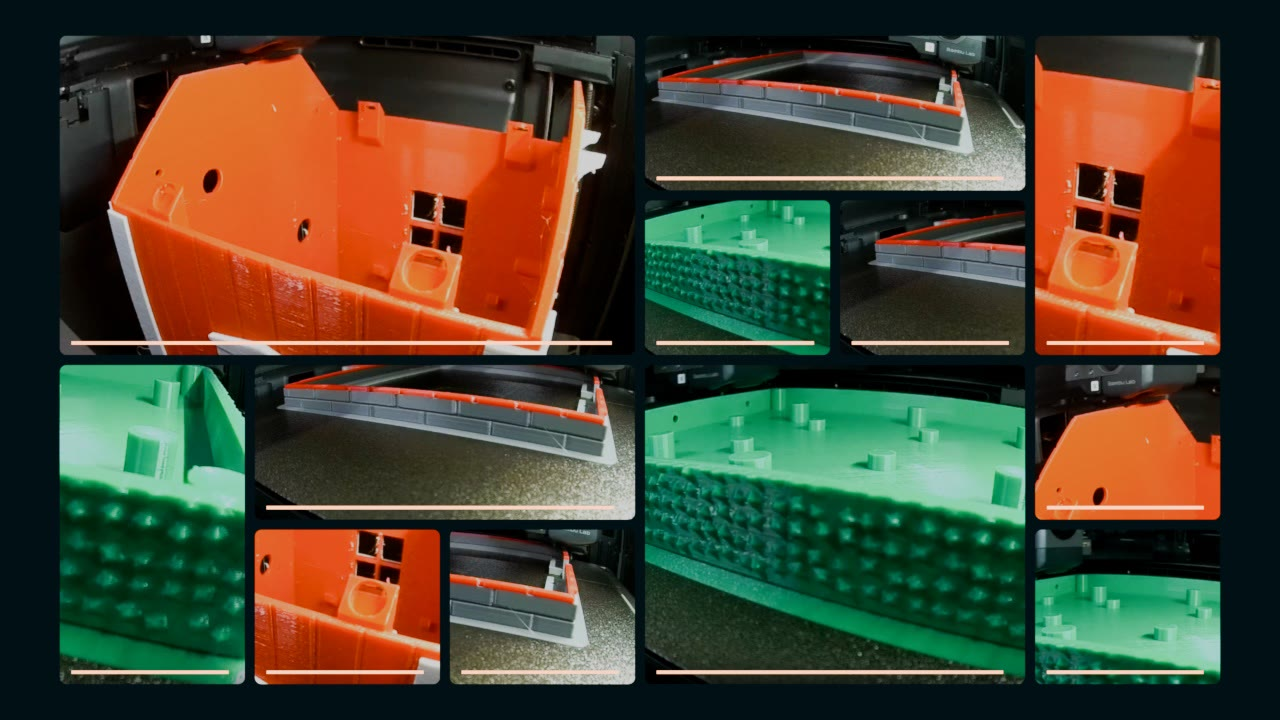
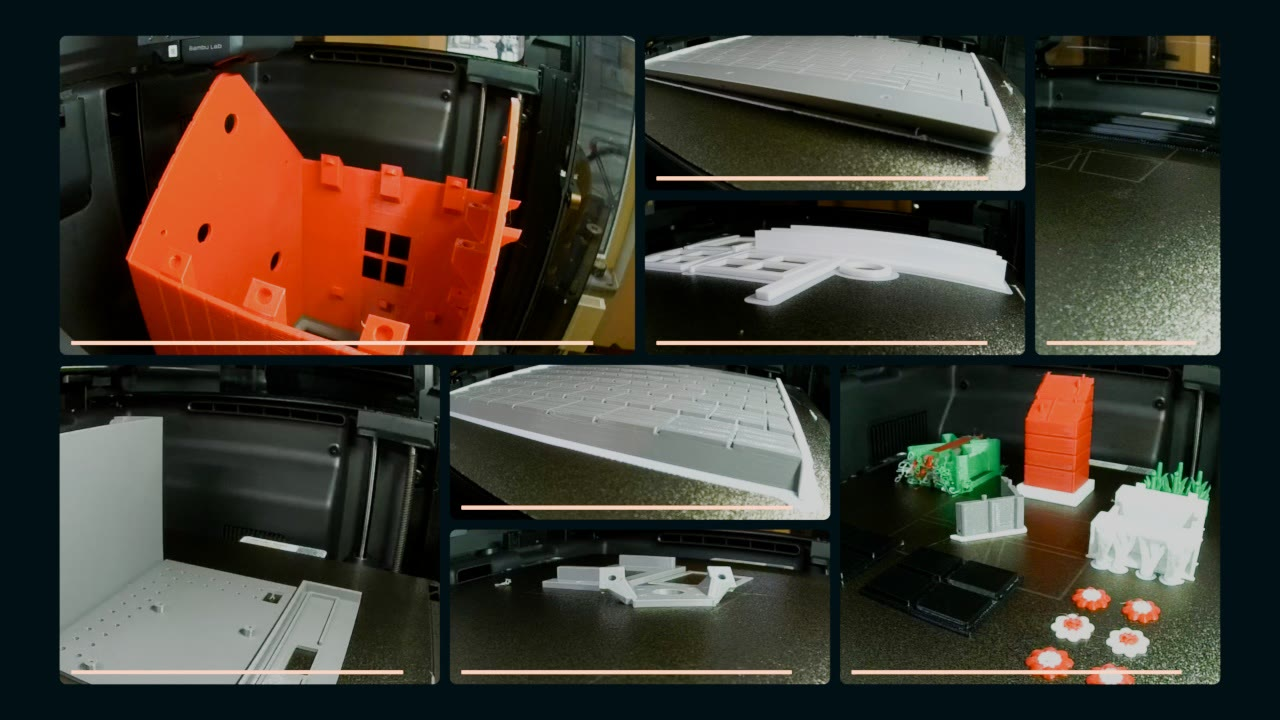
Film: riktiga timelapse-klipp i utskriftsväggen
Utskriftsväggen (5.2–5.3) visar nu Marcus åtta timelapse-klipp från
skrivaren i stället för tre stillbilder. Väggen har åtta rutor i stället
för tolv, och varje klipp går från tom byggplatta till färdig del så att
alla blir klara samtidigt. Ljudmixen har ett klick per ruta.

diff --git a/trailer/storyboard/storyboard.html b/trailer/storyboard/storyboard.html
@@ -134,7 +134,7 @@ td:first-child { color: var(--fg); white-space: nowrap; font-family: var(--mono)
 <div class="wrap">
 
 <header class="top">
-  <div class="eyebrow">Storyboard v32 · Titeln vänds bort i brickor</div>
+  <div class="eyebrow">Storyboard v33 · Riktiga timelapse-klipp i utskriftsväggen</div>
   <h1>Projekt <span>Lennart</span></h1>
   <p class="lead">En helt orimlig mängd teknik, redovisad med fullt allvar, för att en ekorre ska få äta sin nöt i fred.</p>
   <div class="facts">
@@ -192,7 +192,7 @@ td:first-child { color: var(--fg); white-space: nowrap; font-family: var(--mono)
     <div><span class="tc">0:42–1:27 · 3D med kartongfigurer</span><h3>2 · Problemet och planen</h3><p>Fåglarna länsar buffén. Sedan idén: kameran, frågan till molnet, nej till fågeln och ja till Lennart.</p></div>
     <div><span class="tc">1:27–1:47 · 3D</span><h3>3 · Designen</h3><p>Skissen blir lera, blir färdig stuga, i en enda kamerabana.</p></div>
     <div><span class="tc">1:47–2:03 · 3D</span><h3>4 · Inköpen</h3><p>Rösten räknar upp delarna och varje del landar på sitt ord.</p></div>
-    <div><span class="tc">2:03–2:16 · 3D och riktig film</span><h3>5 · Utskriften</h3><p>Lager för lager. Kan filmas på riktigt när du skriver ut.</p></div>
+    <div><span class="tc">2:03–2:16 · 3D och riktig film</span><h3>5 · Utskriften</h3><p>Lager för lager, med dina riktiga timelapse-klipp från skrivaren.</p></div>
     <div><span class="tc">2:16–2:38 · 3D</span><h3>6 · Monteringen</h3><p>Filmens visuella topp. Två repliker, resten musik och klick.</p></div>
     <div><span class="tc">2:38–2:58 · riktig film</span><h3>7 · På riktigt</h3><p>Fågeln nekas och Lennart släpps in, i verkligheten. Platshållare tills huset är utskrivet.</p></div>
   </div>
@@ -331,7 +331,7 @@ td:first-child { color: var(--fg); white-space: nowrap; font-family: var(--mono)
     <div><h3>Kvar att lösa</h3>
       <ul>
         <li><b>Finalen.</b> Film på det riktiga huset med en fågel och med Lennart, när huset är utskrivet. Tills dess ligger platshållare där.</li>
-        <li><b>Film från utskriften.</b> Eftersom huset inte är utskrivet än går det att filma munstycket i makro och en timelapse, i stället för att göra det i 3D.</li>
+        <li><b>Film från utskriften.</b> Utskriftsväggen (5.2–5.3) använder nu dina åtta timelapse-klipp. Kvar är 5.1, som fortfarande är en stillbild ur 3D, och den kan bytas mot ett närklipp på munstycket.</li>
         <li><b>Originalfilerna i högre upplösning.</b> Klippen är 720p och förstoras nästan två gånger.</li>
         <li><b>Inköpslistan</b>, så att antal servon, filamentfärger och övriga delar blir rätt i del 4.</li>
         <li><b>Vilken AI-tjänst</b> som används i molnet, om den ska nämnas vid namn.</li>
@@ -373,7 +373,7 @@ td:first-child { color: var(--fg); white-space: nowrap; font-family: var(--mono)
     <li><b>Du godkänner ordningen och manuset</b>, eller ger noter per klippnummer.</li>
     <li><b>Du spelar in rösten</b>, en fil per del.</li>
     <li><b>Jag bygger del 2</b>, planen med pappfigurerna, och tajmar om de färdiga delarna efter din röst.</li>
-    <li><b>Del 5 och 6</b> byggs i 3D. Del 5 byts mot riktig film om du filmar utskriften.</li>
+    <li><b>Del 6</b> byggs i 3D. Del 5 visar dina riktiga timelapse-klipp, utom 5.1 som är en stillbild ur 3D.</li>
     <li><b>Finalen</b> klipps in när huset är utskrivet och filmat.</li>
   </ol>
 </section>
@@ -413,10 +413,10 @@ const ACTS = [
   ['4.1','1:47','10 s','Uppläggningen','a3_1','cg','Varje del nämns i samma ögonblick som den landar.','Petroleumblå yta. Under första meningen landar allt det andra som köptes längs kanterna: ljusring, kamerakabel, kondensatorer, kabelgenomföringar, superlim, silikon, kylare, spänningsomvandlare, DC-kontakt och servotestare. Samtidigt ritas streckade konturer upp i mitten där huvuddelarna ska ligga. Huvuddelarna glider sedan in en i taget i sina konturer och får en etikett. Sladdarna växer fram i räta vinklar.','Snett uppifrån, nästan stilla.','En stor mjuk ljuskälla.','Kanterna fylls under "en hel del grejer", en sak i taget med ett svagt tick. Sedan en huvuddel per ord, i röstens ordning: Raspberry Pi, kameramodul, LED-skärm, servomotorer (en mikroservo och en större), kablar, skruvar, nötter. Konturen lyser till när delen landar.','Kameran panorerar till filamentrullarna.','"Sen var det ju en hel del grejer som skulle köpas, såklart. En Raspberry Pi. En kameramodul. En LED-skärm. Servomotorer. Kablar. Skruvar. Och nötter."','Ett torrt klick per del. Nötterna får ett mjukare ljud.','3D. Komponenterna är generiska modeller, inte kopior av de inköpta delarna. Sakerna i kanterna är hämtade ur kvittot från elektronikbeställningen.'],
   ['4.2','1:57','6 s','Filamentet','a3_2','cg','Bron till utskriften.','Fem filamentrullar, röd, grön, vit, grå och svart, glider in. Kameran landar över alla fem och åker sedan in mot den röda.','Inåkning till makro.','Kall kant från höger.','Rullen accelererar.','Kameran åker in i rullens svarta nav tills bilden är svart.','"Plus en massa filament i rätt färger. Claude satte ihop inköpslistan, och sen var det bara för mig och Lennart att hosta upp pengarna."','Ett surr som går över i skrivarens fläkt.','3D'],
  ]],
- ['5 · Utskriften', '2:03–2:16', 'Utskriftsväggen ligger in som platshållare med tre stillbilder. Byts mot dina riktiga timelapse-klipp.', [
+ ['5 · Utskriften', '2:03–2:16', 'Utskriftsväggen visar nu dina åtta riktiga timelapse-klipp från skrivaren. 5.1 är fortfarande en stillbild ur 3D.', [
   ['5.1','2:03','3 s','Lager för lager','12','cg','Bron från digitalt till fysiskt.','Stugans kropp halvvägs utskriven på skrivarens byggplatta. Den utskrivna delen har synliga lagerlinjer, det lager som skrivs just nu glöder vid munstycket, och resten av stugan syns som en svag genomskinlig förhandsvisning. Visar övergången från ritning till utskrift: modellen byggs upp ett tunt lager i taget.','Snett ovanifrån.','Sval och platt.','Planet stiger nerifrån och upp, som utskriften kommer att göra.','Munstycket glider in och lägger sig på planet.','"Och sen skrev jag ut allt."','En stigande ton som går över i fläkten.','Stillbild ur 3D från GLB, platshållare. Riktigt material: en skärminspelning från slicern (programmet som delar upp modellen i lager) eller ett närklipp på munstycket från skrivaren.'],
-  ['5.2','2:06','4 s','Utskriftsväggen','u1','mix','Visa hur mycket som skrevs ut.','En utskrift i helbild. Kameran backar och vrids, och det visar sig att den är en av tolv rutor i en vägg av timelapse-klipp i olika storlekar. Rutorna dyker fram utåt från den första.','Helbild som backar till en sned vy av väggen.','Rutorna är bildens enda ljus mot mörk petroleumblå botten.','Rutorna dyker fram en i taget, på olika djup.','Kameran fortsätter in i nästa klipp utan avbrott.','Ingen röst.','Ett lätt ljud per ruta.','Riktiga timelapse-klipp från skrivaren i 3D-layout. Platshållare: tre stillbilder i olika beskärning.'],
-  ['5.3','2:10','6 s','Alla blir klara','u2','mix','Tid och tålamod, och att allt blev klart.','Kameran glider rakt framifrån och väggen planas ut till en exakt layout med tolv rutor. En tunn orange linje fylls under varje ruta, och alla når fram samtidigt och blixtrar till.','Rakt framifrån, långsam åkning.','Samma.','Linjerna fylls, alla blir klara i samma ögonblick.','Rutorna glider isär som dörrar och kameran åker in genom öppningen, rakt in i sprängskissen.','"Utskriften tog några dagar. Det här med att det ska bli rätt första gången är ändå lite överskattat."','Ett gemensamt klart-ljud när linjerna blixtrar.','Riktiga timelapse-klipp, tidsjusterade så att alla blir klara samtidigt. Platshållare tills de finns.'],
+  ['5.2','2:06','4 s','Utskriftsväggen','u1','mix','Visa hur mycket som skrevs ut.','En utskrift i helbild. Kameran backar och vrids, och det visar sig att den är en av åtta rutor i en vägg av timelapse-klipp i olika storlekar. Rutorna dyker fram utåt från den första.','Helbild som backar till en sned vy av väggen.','Rutorna är bildens enda ljus mot mörk petroleumblå botten.','Rutorna dyker fram en i taget, på olika djup.','Kameran fortsätter in i nästa klipp utan avbrott.','Ingen röst.','Ett lätt ljud per ruta.','Dina åtta timelapse-klipp från skrivaren (15–18/11) i 3D-layout. Huvudrutan är stugans röda kropp.'],
+  ['5.3','2:10','6 s','Alla blir klara','u2','mix','Tid och tålamod, och att allt blev klart.','Kameran glider rakt framifrån och väggen planas ut till en exakt layout med åtta rutor. En tunn orange linje fylls under varje ruta, och alla når fram samtidigt och blixtrar till.','Rakt framifrån, långsam åkning.','Samma.','Linjerna fylls, alla blir klara i samma ögonblick.','Rutorna glider isär som dörrar och kameran åker in genom öppningen, rakt in i sprängskissen.','"Utskriften tog några dagar. Det här med att det ska bli rätt första gången är ändå lite överskattat."','Ett gemensamt klart-ljud när linjerna blixtrar.','Dina timelapse-klipp, tidsjusterade så att alla blir klara samtidigt: varje klipp går från tom byggplatta till färdig del medan linjen under rutan fylls.'],
  ]],
  ['6 · Monteringen', '2:16–2:38', 'Första renderingen klar, utan ljud. Elektroniken från inköpen är inte med än.', [
   ['6.1','2:16','4 s','Sprängskissen','m_16','cg','Visa hela konstruktionen på en gång.','Alla 48 delar svävar isär mot petroleumblå bakgrund. Bakom huset poppar fyra klipp från bygget upp i varsitt hörn i takt med musiken, i vita ramar med rundade hörn. Klippen är lite mjuka, mörkare och dragna mot scenens kalla färg, så att huset är skarpast i bilden.','Långsam omloppsbana.','En stor mjuk nyckel, kall kant.','Delarna andas svagt.','Grunddelarna börjar falla mot varandra.','"Okej, så här sitter den ihop."','Musikens huvudtema.','3D från GLB + delar.json. Byggklippen läggs bakom huset med husets mask. De fyra klippen är platshållare tills de riktiga klippen från bygget kommer.'],
@@ -436,10 +436,10 @@ const FILM = {
  "1.1": "Ur del 1 v1, klippt efter din inspelning.", "1.2": "Ny presentation: korten byggs med film/verktyg/tre_rutor.py. Samma klipp och tider som förut, nu med ett mjukt klick per kort.", "1.3": "Ur del 1 v3. Namnskylten kommer tidigare och ligger kvar in i nästa klipp.", "1.4": "Ur del 1. Nytt slut: Lennart öppnar tassarna och släpper nöten (genererat med Higgsfield), kameran följer den ner till 2.1.",
  "2.1": "Ny version, v8: nöten från 1.4 faller ner och landar på fatet. Vattnet i skålen är nu riktigt vatten: genomskinligt, med krusningar. Figurerna står på en rak kant och vickar på foten i stället för att gå ner i golvet.", "2.2": "Ur v3. Vattnet i skålen är nu riktigt vatten: genomskinligt, med krusningar. Figurerna står på en rak kant och vickar på foten i stället för att gå ner i golvet.", "2.3": "Ur v3. Vattnet i skålen är nu riktigt vatten: genomskinligt, med krusningar. Figurerna står på en rak kant och vickar på foten i stället för att gå ner i golvet.", "2.4": "Ur v3. Vattnet i skålen är nu riktigt vatten: genomskinligt, med krusningar. Figurerna står på en rak kant och vickar på foten i stället för att gå ner i golvet.", "2.5": "Ny version, v5: nej-signalen slår ner i fatet, som snurrar ut med ett porslinsklirr. Vattnet i skålen är nu riktigt vatten: genomskinligt, med krusningar. Figurerna står på en rak kant och vickar på foten i stället för att gå ner i golvet.", "2.6": "Ny version, v6: nötterna vilar, kameran lyfter i slutet. Vattnet i skålen är nu riktigt vatten: genomskinligt, med krusningar. Figurerna står på en rak kant och vickar på foten i stället för att gå ner i golvet.",
  "6.1": "Ny version, v2: byggklippen i hörnen, i takt med musiken (platshållare).", "6.2": "Ny version, v2: byggklippen går när kameran åker nära (platshållare).", "6.3": "Första renderingen, v1. Rösten klipps inte längre i slutet av \"honom\".", "3.1": "Ny version, v6: ett litet munstycke under fönstret projicerar ritningen, med mjuk rörelse.", "3.2": "Ny version, v4: snabb panorering i slutet.",
- "4.1": "Ny version, v6: konturer och allt det andra som köptes längs kanterna.", "4.2": "Ny version, v6: fem filamentfärger, in i den röda rullens nav i slutet. Det svarta filamentet är blankare så att det syns.", "5.2": "Platshållare: utskriftsväggen med dina tre stillbilder.", "5.3": "Platshållare: utskriftsväggen med dina tre stillbilder."
+ "4.1": "Ny version, v6: konturer och allt det andra som köptes längs kanterna.", "4.2": "Ny version, v6: fem filamentfärger, in i den röda rullens nav i slutet. Det svarta filamentet är blankare så att det syns.", "5.2": "Ny version, v2: dina åtta riktiga timelapse-klipp i stället för stillbilderna. Ett klick per ruta.", "5.3": "Ny version, v2: alla åtta klippen blir klara samtidigt."
 };
 // Scener som väntar på riktigt material (timelapse-klipp, film av huset). De får vattenstämpeln VÄNTAR PÅ MATERIAL här och i filmen.
-const VANTAR = ['5.1', '5.2', '5.3', '7.1', '7.2', '7.3', '7.4'];
+const VANTAR = ['5.1', '7.1', '7.2', '7.3', '7.4'];
 const key = no => no.replace('.', '_');
 const SRC = { cg: ['cg', '3D'], real: ['real', 'Autentiskt'], mix: ['mix', 'Blandat'], title: ['mix', 'Grafik'] };
 const esc = s => s.replace(/&/g, '&amp;').replace(/</g, '&lt;');

diff --git a/trailer/film/akt_utskrift.py b/trailer/film/akt_utskrift.py
@@ -1,15 +1,17 @@
-# Projekt Lennart - del 5: utskriftsvaggen. Tolv timelapse-klipp fran 3D-skrivaren i en bento-layout med olika storlekar.
+# Projekt Lennart - del 5: utskriftsvaggen. Atta riktiga timelapse-klipp fran 3D-skrivaren i en bento-layout med olika storlekar.
 # Bilden borjar pa en utskrift i helbild, kameran backar och vrids sa att vaggen syns snett med djup, rutorna dyker fram
 # utat fran den forsta. Vaggen planas sedan ut till en exakt layout. Under varje ruta fylls en tunn forloppslinje, och alla
 # blir klara i samma ogonblick (rakt klipp till sprangskissen, 6.1).
 # Kor:  blender -b -P akt_utskrift.py -- <ut-mapp (absolut)> <bredd> [tider i sekunder ...]
-# Platshallare: rutorna visar tre stillbilder i olika beskarning tills de riktiga timelapse-klippen finns (film/timelapse).
+# Klippen ligger i film/timelapse/rutor/<1-8>/%04d.jpg (uppdelade med ffmpeg, 1280 px). Varje ruta spelar sitt klipp fran borjan
+# nar den dyker fram och sista bilden landar nar alla blir klara (DONE), sa korta klipp gar langsammare och langa fortare.
 import bpy, sys, os, math, random
 from mathutils import Vector, Euler, Matrix
 HERE = os.path.dirname(os.path.abspath(__file__))
 a = sys.argv[sys.argv.index('--') + 1:]; OUT, WIDTH, TIMES = os.path.abspath(a[0]), int(a[1]), [float(x) for x in a[2:]]
 os.makedirs(OUT, exist_ok=True); FPS, END, DONE = 25, 10.0, 9.1   # 5.2 = 0-4 s, 5.3 = 4-10 s. Alla blir klara pa slutet av repliken i 5.3
-IMG = os.path.join(HERE, 'timelapse', 'platshallare')
+RUTOR = os.path.join(HERE, 'timelapse', 'rutor')
+NF = {k: len([f for f in os.listdir(os.path.join(RUTOR, str(k))) if f.endswith('.jpg')]) for k in range(1, 9)}
 
 bpy.ops.wm.read_factory_settings(use_empty=True); sc = bpy.context.scene
 for eng in ('BLENDER_EEVEE', 'BLENDER_EEVEE_NEXT'):
@@ -29,12 +31,12 @@ def link(o): sc.collection.objects.link(o); return o
 CW, CH, G = 16 / 6, 9 / 4, 0.07
 LAYOUT = [  # (kolumn, rad, bredd, hojd)
     (0, 0, 3, 2),   # A huvudrutan, 16:9 - bilden borjar har
-    (3, 0, 2, 1), (5, 0, 1, 2), (3, 1, 1, 1), (4, 1, 1, 1),
-    (0, 2, 1, 2), (1, 2, 2, 1), (3, 2, 2, 2), (5, 2, 1, 1), (1, 3, 1, 1), (2, 3, 1, 1), (5, 3, 1, 1)]
-# platshallarnas beskarning: (bild, zoom, mitt u, mitt v) - zoom < 1 skar bort fisheye-kanterna
-CROP = [(3, 0.78, 0.48, 0.50), (1, 0.8, 0.55, 0.62), (3, 0.62, 0.62, 0.45), (2, 0.6, 0.35, 0.55), (1, 0.55, 0.3, 0.62), (2, 0.7, 0.75, 0.45),
-        (1, 0.75, 0.5, 0.55), (2, 0.82, 0.5, 0.5), (3, 0.5, 0.35, 0.7), (3, 0.45, 0.55, 0.3), (1, 0.5, 0.75, 0.6), (2, 0.5, 0.5, 0.75)]
-VALID = {1: (0.0, 0.0, 0.95, 0.92), 2: (0.0, 0.1, 1.0, 1.0), 3: (0.0, 0.0, 1.0, 1.0)}   # bildytor utan knappar och spelarlist
+    (3, 0, 2, 1), (5, 0, 1, 2), (3, 1, 2, 1),
+    (0, 2, 2, 2), (2, 2, 2, 1), (2, 3, 2, 1), (4, 2, 2, 2)]
+# klipp och beskarning: (klipp 1-8, zoom, mitt u, mitt v) - zoom < 1 skar bort fisheye-kanterna. Klippen ar numrerade i datumordning (se film/timelapse)
+CROP = [(3, 0.86, 0.55, 0.50),   # A stugans roda kropp
+        (6, 0.85, 0.52, 0.50), (7, 1.0, 0.55, 0.5), (4, 0.75, 0.55, 0.66),
+        (1, 0.80, 0.58, 0.58), (5, 0.85, 0.52, 0.50), (2, 0.58, 0.47, 0.68), (8, 0.78, 0.52, 0.47)]
 
 def rrect(w, h, r, name):
     pts = []
@@ -44,15 +46,15 @@ def rrect(w, h, r, name):
     for l in me.loops: x, y = pts[l.vertex_index]; uv.data[l.index].uv = (x / w + 0.5, y / h + 0.5)
     return me
 
-imgs = {k: bpy.data.images.load(os.path.join(IMG, '%d.webp' % k)) for k in (1, 2, 3)}
+def frame_img(k, n): return bpy.data.images.load(os.path.join(RUTOR, str(k), '%04d.jpg' % min(max(n, 0), NF[k] - 1)), check_existing=True)
 TILES = []; rng = random.Random(4)
 for i, ((c, r, w, h), (k, z, cu, cv)) in enumerate(zip(LAYOUT, CROP)):
     tw, th = w * CW - 2 * G, h * CH - 2 * G; cx, cy = -8 + (c + w / 2) * CW, 4.5 - (r + h / 2) * CH
     m = bpy.data.materials.new('ruta%d' % i); m.use_nodes = True; nt = m.node_tree; nt.nodes.clear()
-    o_ = nt.nodes.new('ShaderNodeOutputMaterial'); em = nt.nodes.new('ShaderNodeEmission'); tx = nt.nodes.new('ShaderNodeTexImage'); tx.image = imgs[k]; tx.extension = 'EXTEND'
+    o_ = nt.nodes.new('ShaderNodeOutputMaterial'); em = nt.nodes.new('ShaderNodeEmission'); tx = nt.nodes.new('ShaderNodeTexImage'); tx.image = frame_img(k, 0); tx.extension = 'EXTEND'
     uvn = nt.nodes.new('ShaderNodeTexCoord'); mp = nt.nodes.new('ShaderNodeMapping')
-    ai, at = imgs[k].size[0] / imgs[k].size[1], tw / th; fw, fh = (1.0, ai / at) if at >= ai else (at / ai, 1.0)
-    lo = VALID[k]; sw, sh = fw * z, fh * z; ou = min(max(cu - sw / 2, lo[0]), lo[2] - sw); ov = min(max(cv - sh / 2, lo[1]), lo[3] - sh)
+    ai, at = 16 / 9, tw / th; fw, fh = (1.0, ai / at) if at >= ai else (at / ai, 1.0)
+    sw, sh = fw * z, fh * z; ou = min(max(cu - sw / 2, 0), 1 - sw); ov = min(max(cv - sh / 2, 0), 1 - sh)
     mp.inputs['Location'].default_value = (ou, ov, 0); mp.inputs['Scale'].default_value = (sw, sh, 1)
     nt.links.new(uvn.outputs['UV'], mp.inputs['Vector']); nt.links.new(mp.outputs[0], tx.inputs['Vector']); nt.links.new(tx.outputs['Color'], em.inputs['Color']); nt.links.new(em.outputs[0], o_.inputs['Surface'])
     ob = link(bpy.data.objects.new('ruta%d' % i, rrect(tw, th, 0.09, 'ruta%d' % i))); ob.data.materials.append(m)
@@ -62,7 +64,7 @@ for i, ((c, r, w, h), (k, z, cu, cv)) in enumerate(zip(LAYOUT, CROP)):
     pme = bpy.data.meshes.new('l'); pme.from_pydata([(0, 0, 0), (1, 0, 0), (1, 0.045, 0), (0, 0.045, 0)], [], [(0, 1, 2, 3)]); pme.materials.append(pm)
     bar = link(bpy.data.objects.new('linje%d' % i, pme)); bar.parent = ob; bar.location = (-tw / 2 + 0.16, -th / 2 + 0.14, 0.002)
     d = (Vector((cx, cy)) - Vector((-4, 2.25))).length
-    TILES.append(dict(ob=ob, bar=bar, w=tw - 0.32, home=Vector((cx, cy, 0)), em=em, pe=pe, mp=mp, s0=(sw, sh), o0=(ou, ov), dist=d, dz=rng.uniform(-0.9, 0.9) if i else 0.0, push=rng.uniform(0.02, 0.06)))
+    TILES.append(dict(ob=ob, bar=bar, w=tw - 0.32, home=Vector((cx, cy, 0)), em=em, pe=pe, mp=mp, tx=tx, k=k, s0=(sw, sh), o0=(ou, ov), dist=d, dz=rng.uniform(-0.9, 0.9) if i else 0.0, push=rng.uniform(0.02, 0.06)))
 order = sorted(range(len(TILES)), key=lambda j: TILES[j]['dist'])
 for n, j in enumerate(order): TILES[j]['t0'] = 0.0 if j == 0 else 1.9 + 0.11 * n     # rutorna dyker fram utat fran huvudrutan
 
@@ -79,6 +81,7 @@ def state(t):
         sx_ = 1 if T['home'].x > 0 else -1; T['ob'].location = T['home'] + Vector((sx_ * door * (9 + 0.5 * abs(T['home'].x)), 0, -7 * (1 - u) + T['dz'] * (1 - flat) + 4 * door)); T['ob'].rotation_euler = (0, -sx_ * 0.9 * door, 0)
         s = 0.86 + 0.14 * u; T['ob'].scale = (s, s, 1); T['em'].inputs['Strength'].default_value = 1.0 * u
         p = min(1, max(0, (t - T['t0']) / (DONE - T['t0']))) if vis else 0; T['bar'].scale = (max(p * T['w'], 0.001), 1, 1)
+        T['tx'].image = frame_img(T['k'], round(p * (NF[T['k']] - 1)))   # klippet gar fran forsta till sista bilden medan linjen fylls
         T['pe'].inputs['Strength'].default_value = 3.0 + 14.0 * (sm(t, DONE, DONE + 0.08) * (1 - sm(t, DONE + 0.15, DONE + 0.6)))   # alla linjer blixtrar till nar de blir klara samtidigt
         k = T['push'] * min(t, DONE) / DONE; sw, sh = T['s0']; T['mp'].inputs['Scale'].default_value = (sw * (1 - k), sh * (1 - k), 1)       # langsam inzoomning i varje ruta
         T['mp'].inputs['Location'].default_value = (T['o0'][0] + sw * k / 2, T['o0'][1] + sh * k / 2, 0)
@@ -97,3 +100,5 @@ for f in frames:
     p = os.path.join(OUT, f'{f:04d}.jpg')
     if os.path.exists(p) and os.path.getsize(p) > 0: continue
     state(f / FPS); bpy.context.view_layer.update(); sc.render.filepath = p; bpy.ops.render.render(write_still=True); print('RUTA', f, flush=True)
+    for im in list(bpy.data.images):
+        if im.users == 0: bpy.data.images.remove(im)

diff --git a/TOKENS.md b/TOKENS.md
@@ -19,7 +19,7 @@ Metoden anger hur siffran togs fram: *exakt* (avläst i verktyget) eller *uppska
 | 2026-11-15 (kväll, livebild) | Publik livebild på lennart.cam (bilder bara när någon tittar), adminvy bakom inloggning med inställningar och av-knapp, Pi-appen skickar 640 × 360 i 2 bilder/s. Testat lokalt och mot riktiga lennart.cam. | ca 5–10 miljoner in, ca 0,08 miljoner ut [osäkert] | Uppskattat: ca 40 modellanrop × 130 000–240 000 tokens kontext. Ut uppskattat ur mängden skriven kod och text. | 0 | Ingen lokal modell användes |
 | 2026-11-15 (kväll, admin) | Felsökning av inloggningen i adminvyn: tolerans för mellanslag och citattecken, fingeravtryck i loggen, test i riktig webbläsare, besökarens adress bakom Cloudflare | ca 3–6 miljoner in, ca 0,03 miljoner ut [osäkert] | Uppskattat: ca 20 modellanrop × 150 000–260 000 tokens kontext | 0 | Ingen lokal modell användes |
 | 2026-11-15 (kväll, rotation och servon) | Kamerans rotation och servostyrning i adminvyn: kommandon och inställningar via Pi:ns väntande anrop, egen drivrutin för PCA9685, kopplingsguide för servona, rättning av dolda bilder i stilmallen. Testat med låtsashårdvara och i Chromium. | ca 6–12 miljoner in, ca 0,1 miljoner ut [osäkert] | Uppskattat: ca 40 modellanrop × 160 000–280 000 tokens kontext. Ut uppskattat ur mängden skriven kod och text. | 0 | Ingen lokal modell användes |
-| 2026-11-14 – 2026-11-18 | Trailern, Claude Code i Claude-appen på Windows (lokal session): storyboard, alla 3D-scener i Blender, Marcus röst bearbetad och lagd mot klippen, musik och ljudeffekter, övergångar, flytt av filmprojektet till repot, övergången från Lennart till planen, vattenstämpeln, inköpen, servonas tajming, byggklippen i monteringen, munstycket i designen, delarna som byggsats i öppningen, ekollonet i titeln, nöten som faller från 1.4 till 2.1, rättelser, varianter av 0.3 och 0.4 och det osynliga klippet mellan dem, släppet i 1.4 genererat med Higgsfield, LED-skärmen i mitten av 0.4, korten i 1.2, 0.4–0.5 i en tagning, glitchen och det släckta golvet, vattnet i skålen, övergången där titelns pixlar lossnar, figurerna som vickar på foten och fem förslag på övergången från titeln, där vändbrickorna valdes | ca 519,3 miljoner in, varav 514,6 miljoner cacheläsning och 4,6 miljoner cacheskrivning, och 1,87 miljoner ut | Exakt ur sessionsloggen fram till 2026-11-18 08.15 UTC: summan av `usage`-fälten för 1745 modellanrop (Claude Fable 5.2 och Claude Opus 5.5), räknat en gång per svar. Arbetet efter den tidpunkten ingår inte. | ej räknat | Whisper medium kördes lokalt för att skriva ut rösten (ca 2,5 minuter ljud). Whisper räknar inte tokens på samma sätt, och antalet loggades inte. |
+| 2026-11-14 – 2026-11-19 | Trailern, Claude Code i Claude-appen på Windows (lokal session): storyboard, alla 3D-scener i Blender, Marcus röst bearbetad och lagd mot klippen, musik och ljudeffekter, övergångar, flytt av filmprojektet till repot, övergången från Lennart till planen, vattenstämpeln, inköpen, servonas tajming, byggklippen i monteringen, munstycket i designen, delarna som byggsats i öppningen, ekollonet i titeln, nöten som faller från 1.4 till 2.1, rättelser, varianter av 0.3 och 0.4 och det osynliga klippet mellan dem, släppet i 1.4 genererat med Higgsfield, LED-skärmen i mitten av 0.4, korten i 1.2, 0.4–0.5 i en tagning, glitchen och det släckta golvet, vattnet i skålen, övergången där titelns pixlar lossnar, figurerna som vickar på foten och fem förslag på övergången från titeln, där vändbrickorna valdes, och Marcus åtta timelapse-klipp i utskriftsväggen | ca 527,9 miljoner in, varav 523,1 miljoner cacheläsning och 4,8 miljoner cacheskrivning, och 1,90 miljoner ut | Exakt ur sessionsloggen fram till 2026-11-18 23.22 UTC: summan av `usage`-fälten för 1804 modellanrop (Claude Fable 5.2 och Claude Opus 5.5), räknat en gång per svar. Arbetet efter den tidpunkten ingår inte. | ej räknat | Whisper medium kördes lokalt för att skriva ut rösten (ca 2,5 minuter ljud). Whisper räknar inte tokens på samma sätt, och antalet loggades inte. |
 | 2026-11-15 | Kort Claude Code-session i samma mapp: försök att snygga till en timelapse av utskriften med Higgsfield [verifiera vad som blev gjort] | ca 7,0 miljoner in, varav 6,9 miljoner cacheläsning, och 0,03 miljoner ut | Exakt ur sessionsloggen: summan av `usage`-fälten för 50 modellanrop (Claude Opus 5.5) | 0 | Ingen lokal modell användes |
 
 ## Utanför tokenräkningen

diff --git a/trailer/film/LAGE.md b/trailer/film/LAGE.md
@@ -22,7 +22,7 @@ Senast uppdaterad 2026-11-16. Skriven för att arbetet ska kunna fortsätta på 
 | 2 Problemet och planen | Fat, skata, kamera i sladd, moln, ja och nej | Klar. Landar ur panoreringen från 1.4, fatet snurrar vid nej, nötterna vilar på riktigt. |
 | 3 Designen | Claude-fönstret ritar huset, huset reser sig | Klar. Ett litet munstycke fälls ut under fönstret och projicerar ritningen. |
 | 4 Inköpen | Komponenterna på blå yta, filamentet | Klar. Allt annat som köptes landar längs kanterna, konturer visar var huvuddelarna ska ligga, fem filamentfärger. Det svarta filamentet är blankt så att det syns. |
-| 5 Utskriften | Lager för lager (5.1) och utskriftsväggen (5.2–5.3) | 5.1 är en stillbild ur 3D. Väggen visar platshållare tills de riktiga timelapse-klippen finns. |
+| 5 Utskriften | Lager för lager (5.1) och utskriftsväggen (5.2–5.3) | 5.1 är en stillbild ur 3D. Väggen visar sedan 19/11 åtta riktiga timelapse-klipp från skrivaren (`timelapse/`). |
 | 6 Monteringen | Sprängskiss, delarna hittar hem | Fyra byggklipp svävar bakom huset i 6.1–6.2, än så länge platshållare. Elektroniken från inköpen saknas. |
 | 7 På riktigt | Huset ute, fågel nekas, Lennart får en nöt | Väntar på riktig film. Stillbilder tills dess. |
 
@@ -43,7 +43,7 @@ Senast uppdaterad 2026-11-16. Skriven för att arbetet ska kunna fortsätta på 
 
 ## Nästa steg
 
-1. Timelapse-klippen från skrivaren (10–13 st) i `timelapse/`, sedan renderas `akt_utskrift.py` om med dem.
+1. Klart 19/11: åtta timelapse-klipp i `timelapse/`, inbyggda i utskriftsväggen. Väggen har nu åtta rutor i stället för tolv. Fler klipp kan läggas till genom att utöka `LAYOUT` och `CROP` i `akt_utskrift.py`.
 2. Riktig film till del 7 när huset står ute.
 3. Fyra riktiga klipp från bygget till monteringen. De ersätter platshållarna (se Byggklippen nedan).
 4. Elektroniken i monteringen (del 6).

diff --git a/KALLOR.md b/KALLOR.md
@@ -104,6 +104,7 @@ Allt som bidraget bygger på och som inte är Marcus eget arbete. Lägg till en 
 | Musiken "System Online" | `trailer/System Online.mp3` | Gjord av Marcus i Suno. Licens för spridning beror på abonnemanget [verifiera]. |
 | Claude-logotypen i trailerns del 3 | Ritad i `trailer/film/akt_design.py` | Egen tolkning av Anthropics logotyp, ritad i kod. Om logotypen får användas så [verifiera]. |
 | Videoklipp på Lennart | `trailer/PXL_*.mp4`, `trailer/1000007512.mp4`, `trailer/VID-20261114-WA0000~3.mp4` | Marcus mobilklipp. VID-klippet kom via WhatsApp, vem som filmade det [verifiera]. Marcus är den enda personen i bild. |
+| Timelapse-klippen i utskriftsväggen (5.2–5.3) | `trailer/film/timelapse/*.mp4`, inbyggda med `trailer/film/akt_utskrift.py` | Åtta timelapse-klipp från 3D-skrivaren, 15–18/11, från Marcus. Troligen skrivarens inbyggda kamera [verifiera]. Inga personer i bild. |
 | Släppet i slutet av klipp 1.4 | `trailer/film/higgsfield_14/`, inbyggt med `trailer/film/verktyg/fall_14.py` | AI-genererat med Higgsfield (Seedance 2.5), inte filmat. Från ruta 177 (ca 1 s före klippet till 2.1) är det inte mobilklippet utan en genererad fortsättning där Lennart öppnar tassarna och tappar nöten. I tilten tar en renderad nöt över. Bör märkas som rekonstruktion om tävlingen kräver det [verifiera]. |
 
 ## Hjälp från personer och AI-sessioner
